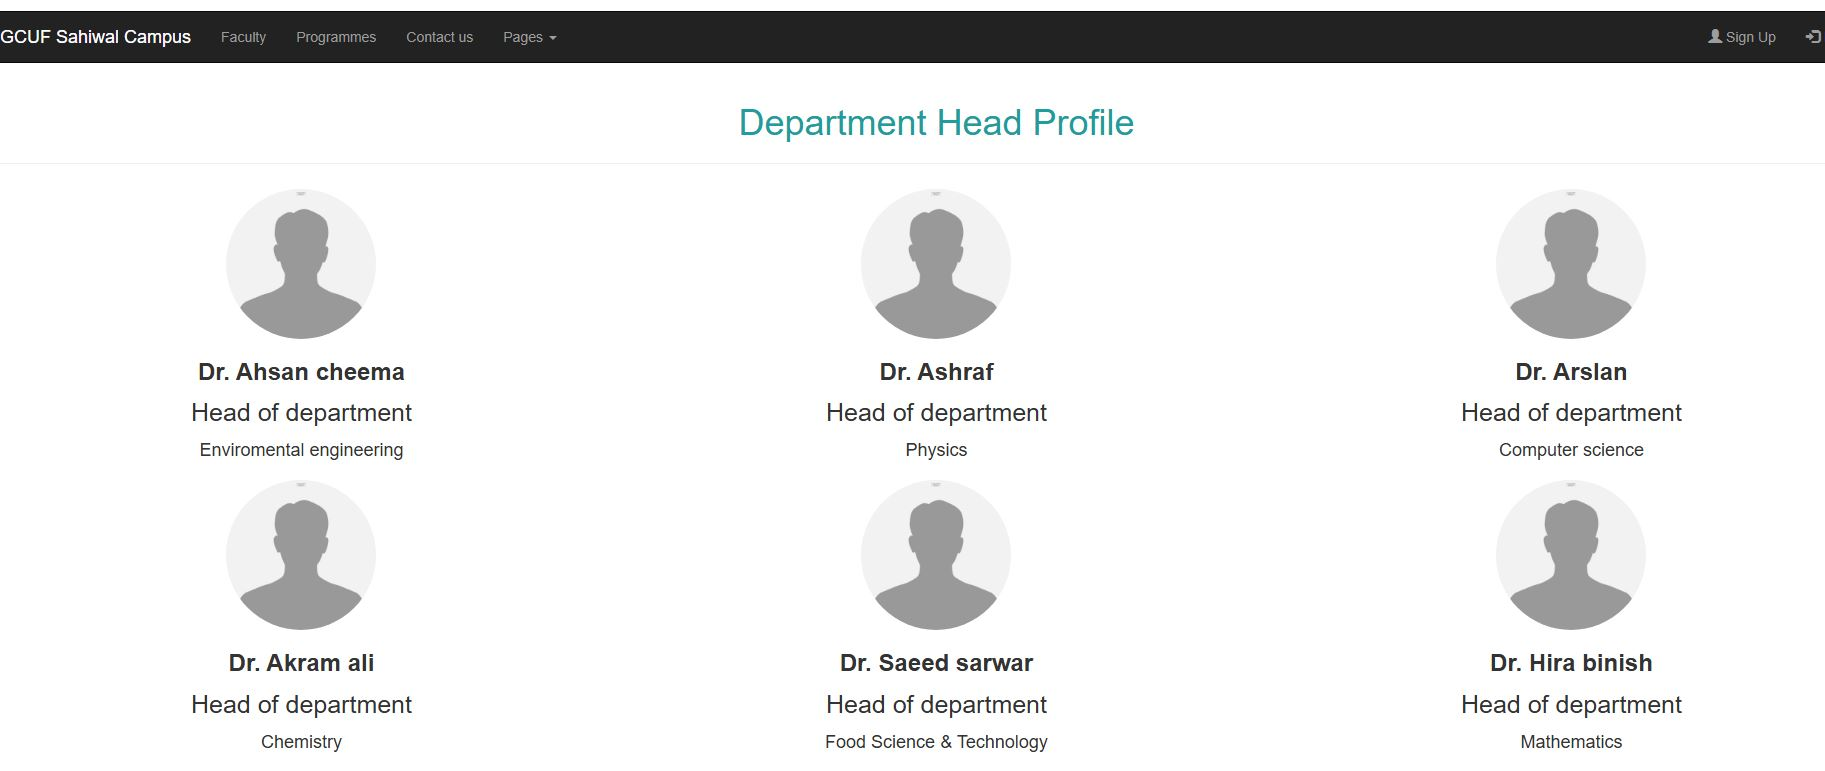
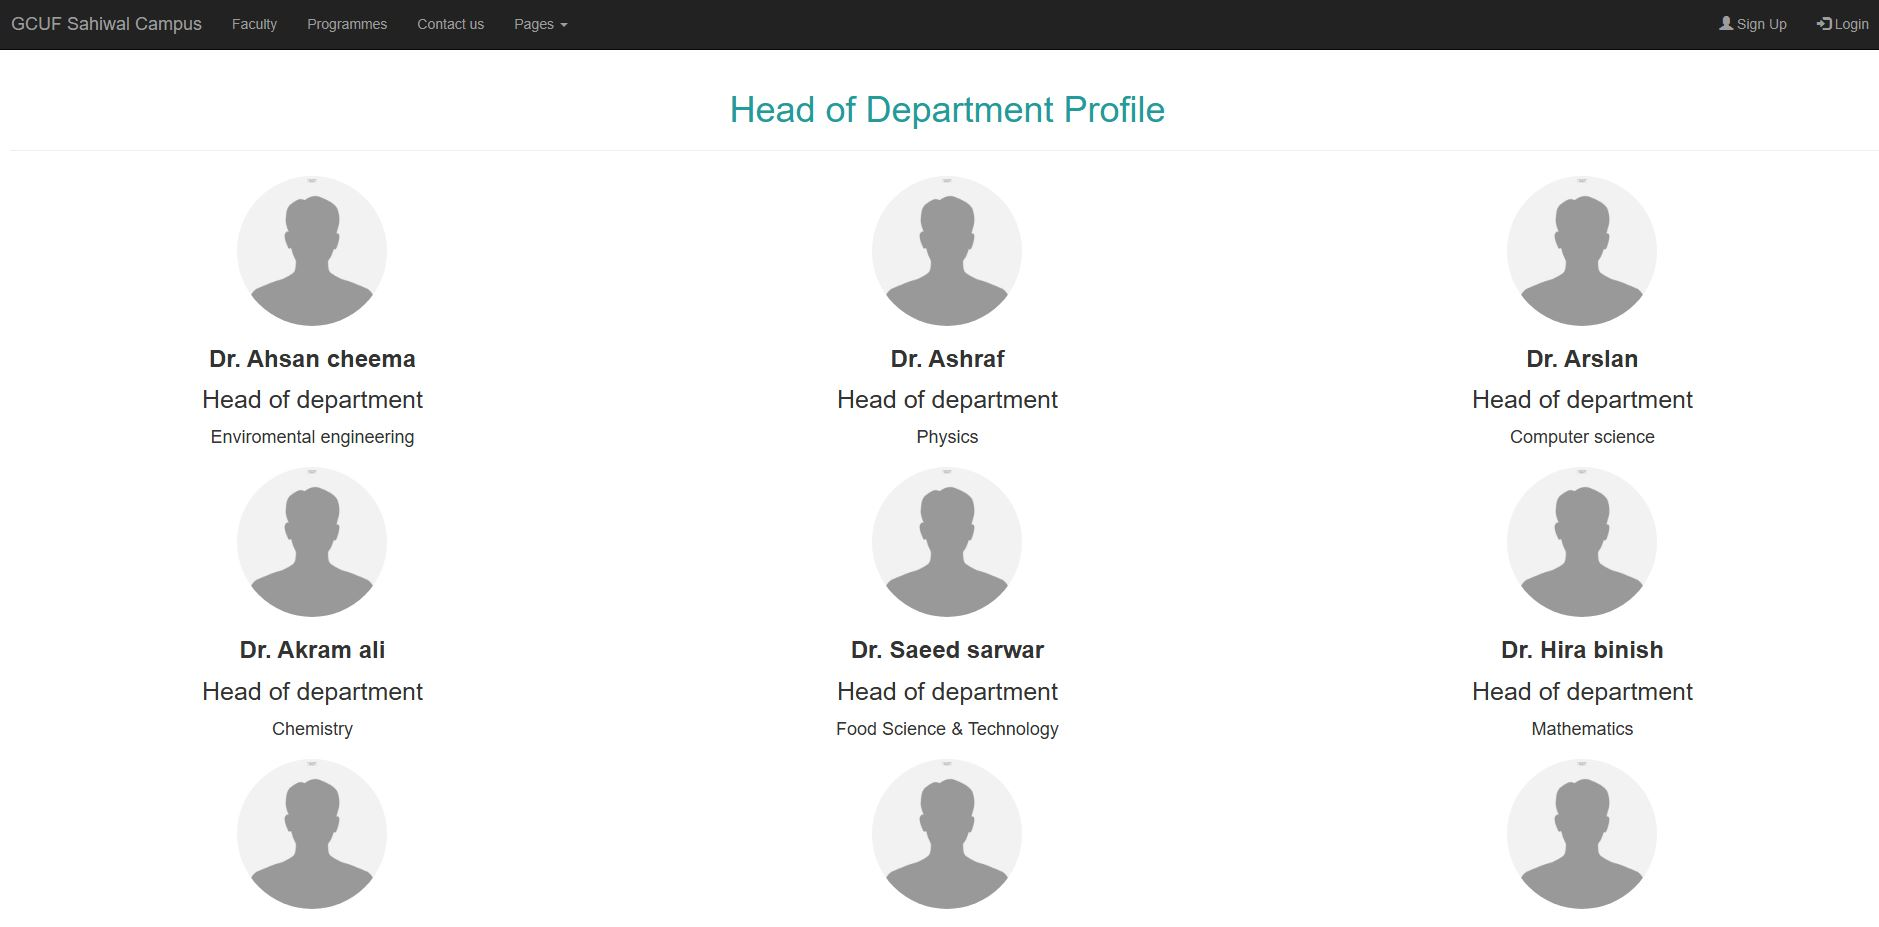
overview data update

diff --git a/resources/views/faculty/faculty.blade.php b/resources/views/faculty/faculty.blade.php
@@ -10,7 +10,7 @@
 	}
 </style>
 <div class="container-fluid text-center"> 
-	<h1 style="color: #219c9c">Department Head Profile</h1>   
+	<h1 style="color: #219c9c">Head of Department Profile</h1>   
 	<hr>
   <div class="row content">
 	@foreach($members as $user)
